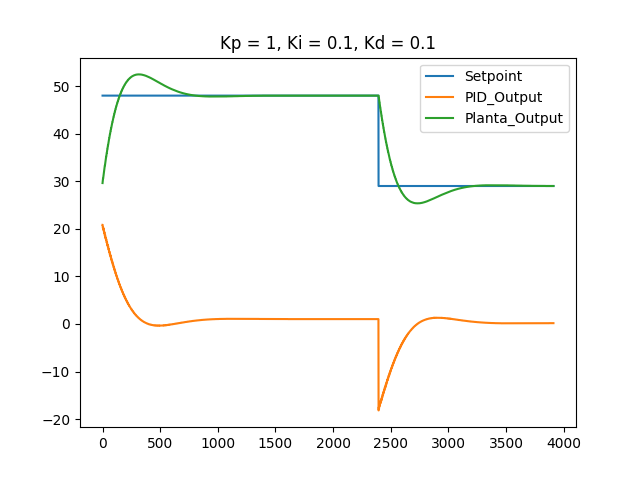
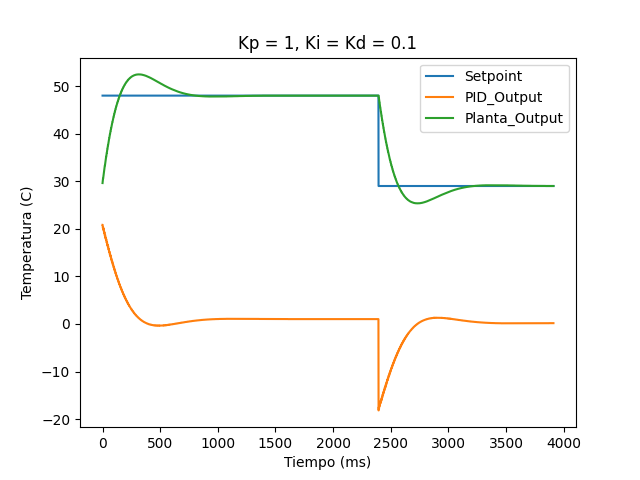
Actualizando nombres de ejes en los graficos

Changed region(s): [[0.3438, 0.0625, 0.6562, 0.125], [0.0312, 0.375, 0.0625, 0.625], [0.4375, 0.9375, 0.5938, 0.9688]]

diff --git a/Laboratorio3/graficos.py b/Laboratorio3/graficos.py
@@ -1,9 +1,11 @@
 import pandas as pd
 import matplotlib.pyplot as plt
-path="./Laboratorio3/Tensiones.csv"
+path="./Laboratorio3/Tensiones0_1.csv"
 
 df = pd.read_csv(path, delimiter=",")
 print(df)
 df.plot()
-plt.title("Kp = 1, Ki = 0.3, Kd = 0.3")
+plt.xlabel("Tiempo (ms)")
+plt.ylabel("Temperatura (C)")
+plt.title("Kp = 1, Ki = Kd = 0.1")
 plt.show()
